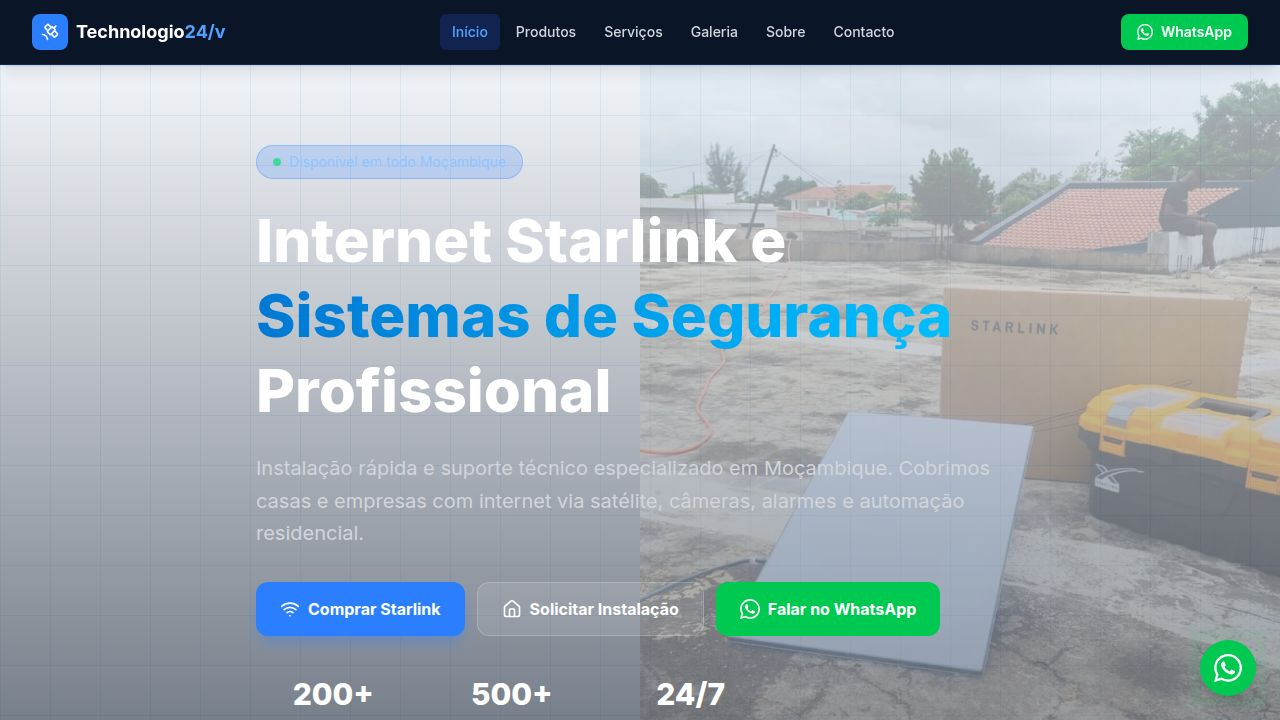
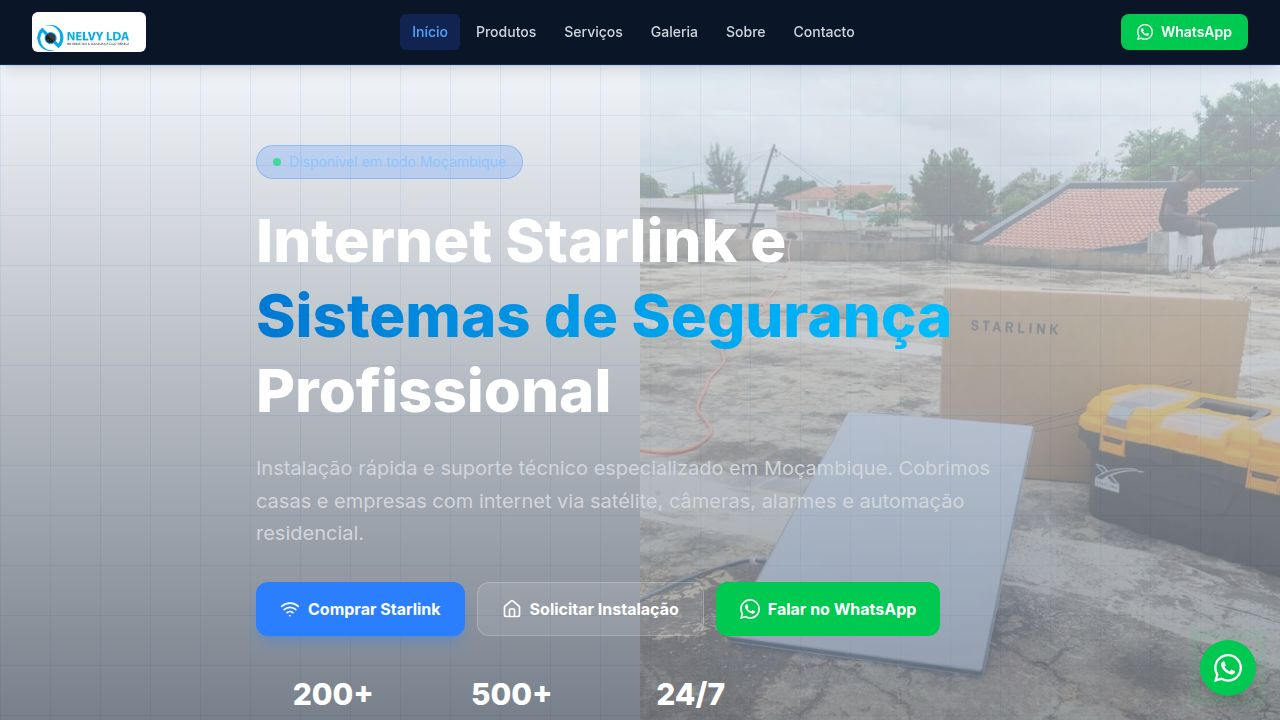
Update company branding and contact information across the website
Update site logo to 'logo.jpeg', add email 'nelvy.geral@gmail.com' to contact and footer sections, and update company name references from 'Technologio24/v' to 'Nelvy LDA' in Navbar, Footer, and About page.

Replit-Commit-Author: Agent
Replit-Commit-Session-Id: ad699e52-8886-4820-8460-2ca30a8b5abe
Replit-Commit-Checkpoint-Type: full_checkpoint
Replit-Commit-Event-Id: d4cc8bac-5a3b-4a42-9106-19a439d94b20
Replit-Commit-Screenshot-Url: https://storage.googleapis.com/screenshot-production-us-central1/3aaa8628-a6ac-40e1-a4ca-c9068292cdaa/ad699e52-8886-4820-8460-2ca30a8b5abe/Ay2DltG
Replit-Helium-Checkpoint-Created: true

Changed region(s): [[0.3125, 0.0, 0.6875, 0.0917], [0.0, 0.0, 0.1875, 0.0917]]

diff --git a/artifacts/starlink-moz/src/components/Footer.tsx b/artifacts/starlink-moz/src/components/Footer.tsx
@@ -1,5 +1,5 @@
 import { Link } from "wouter";
-import { Phone, MessageCircle, Satellite, MapPin } from "lucide-react";
+import { Phone, MessageCircle, MapPin, Mail } from "lucide-react";
 
 export default function Footer() {
   return (
@@ -7,14 +7,8 @@ export default function Footer() {
       <div className="max-w-7xl mx-auto px-4 sm:px-6 lg:px-8">
         <div className="grid grid-cols-1 md:grid-cols-2 lg:grid-cols-4 gap-8 mb-10">
           <div>
-            <div className="flex items-center gap-2 mb-4">
-              <div className="w-9 h-9 rounded-lg bg-blue-500 flex items-center justify-center">
-                <Satellite className="w-5 h-5 text-white" />
-              </div>
-              <div>
-                <span className="text-white font-bold text-lg leading-none">Technologio</span>
-                <span className="text-blue-400 font-bold text-lg leading-none">24/v</span>
-              </div>
+            <div className="mb-4">
+              <img src="/logo.jpeg" alt="Nelvy LDA" className="h-12 w-auto rounded-md bg-white px-2 py-1" />
             </div>
             <p className="text-sm text-gray-400 leading-relaxed">
               Especialistas em instalação de Starlink, segurança eletrônica e automação residencial em Moçambique.
@@ -85,6 +79,13 @@ export default function Footer() {
                   +258 85 759 2248
                 </a>
               </div>
+              <div>
+                <p className="text-gray-500 text-xs mb-1">Email</p>
+                <a href="mailto:nelvy.geral@gmail.com" className="flex items-center gap-2 hover:text-blue-400 transition-colors">
+                  <Mail className="w-4 h-4 text-blue-400" />
+                  nelvy.geral@gmail.com
+                </a>
+              </div>
             </div>
           </div>
         </div>
@@ -94,7 +95,7 @@ export default function Footer() {
             Serviços mediante levantamento técnico e proposta de cotação personalizada.
           </p>
           <p className="text-xs text-gray-600 mt-2">
-            © {new Date().getFullYear()} Technologio24/v — Todos os direitos reservados.
+            © {new Date().getFullYear()} Nelvy LDA — Todos os direitos reservados.
           </p>
         </div>
       </div>

diff --git a/artifacts/starlink-moz/src/pages/Sobre.tsx b/artifacts/starlink-moz/src/pages/Sobre.tsx
@@ -18,13 +18,16 @@ export default function Sobre() {
               </div>
               <h1 className="text-4xl font-extrabold text-white mb-6 leading-tight">
                 Sobre a<br />
-                <span className="text-blue-400">Technologio24/v</span>
+                <span className="text-blue-400">Nelvy LDA</span>
               </h1>
               <p className="text-gray-300 text-lg leading-relaxed mb-4">
-                Somos especialistas em instalação de Starlink, segurança eletrônica e automação residencial, oferecendo soluções modernas para casas e empresas em Moçambique.
+                A Nelvy LDA é especialista em Informática, instalação de Starlink, segurança eletrônica e automação residencial, oferecendo soluções modernas para casas e empresas em Moçambique.
               </p>
               <p className="text-gray-400 leading-relaxed">
                 Todos os serviços são realizados mediante levantamento técnico e proposta de cotação personalizada. A nossa equipa de técnicos certificados garante instalações de qualidade com suporte contínuo.
+              </p>
+              <p className="text-gray-400 leading-relaxed mt-2">
+                📧 nelvy.geral@gmail.com
               </p>
             </div>
             <div className="grid grid-cols-2 gap-4">

diff --git a/artifacts/starlink-moz/src/components/Navbar.tsx b/artifacts/starlink-moz/src/components/Navbar.tsx
@@ -1,6 +1,6 @@
 import { useState } from "react";
 import { Link, useLocation } from "wouter";
-import { Menu, X, Satellite } from "lucide-react";
+import { Menu, X } from "lucide-react";
 
 const links = [
   { href: "/", label: "Início" },
@@ -21,14 +21,8 @@ export default function Navbar() {
     <nav className="sticky top-0 z-50 bg-[#0a1628] border-b border-blue-900/50 shadow-lg">
       <div className="max-w-7xl mx-auto px-4 sm:px-6 lg:px-8">
         <div className="flex items-center justify-between h-16">
-          <Link href="/" className="flex items-center gap-2">
-            <div className="w-9 h-9 rounded-lg bg-blue-500 flex items-center justify-center">
-              <Satellite className="w-5 h-5 text-white" />
-            </div>
-            <div>
-              <span className="text-white font-bold text-lg leading-none">Technologio</span>
-              <span className="text-blue-400 font-bold text-lg leading-none">24/v</span>
-            </div>
+          <Link href="/" className="flex items-center">
+            <img src="/logo.jpeg" alt="Nelvy LDA — Informática & Segurança Electrônica" className="h-10 w-auto rounded-md bg-white px-1" />
           </Link>
 
           <div className="hidden md:flex items-center gap-1">

diff --git a/artifacts/starlink-moz/src/pages/Contacto.tsx b/artifacts/starlink-moz/src/pages/Contacto.tsx
@@ -1,5 +1,5 @@
 import { useState } from "react";
-import { Phone, MessageCircle, MapPin, Clock, Send } from "lucide-react";
+import { Phone, MessageCircle, MapPin, Clock, Send, Mail } from "lucide-react";
 
 const WA1 = "https://wa.me/258848699933";
 const WA2 = "https://wa.me/258877201231";
@@ -75,6 +75,15 @@ export default function Contacto() {
                   </p>
                   <a href="tel:+258857592248" className="flex items-center gap-3 text-blue-700 font-bold hover:text-blue-900 transition-colors">
                     <Phone className="w-5 h-5" /> +258 85 759 2248
+                  </a>
+                </div>
+
+                <div className="bg-blue-50 border border-blue-200 rounded-2xl p-5">
+                  <p className="text-blue-700 font-semibold text-sm mb-3 flex items-center gap-2">
+                    <Mail className="w-4 h-4" /> Email
+                  </p>
+                  <a href="mailto:nelvy.geral@gmail.com" className="flex items-center gap-3 text-blue-700 font-bold hover:text-blue-900 transition-colors">
+                    <Mail className="w-5 h-5" /> nelvy.geral@gmail.com
                   </a>
                 </div>
 
